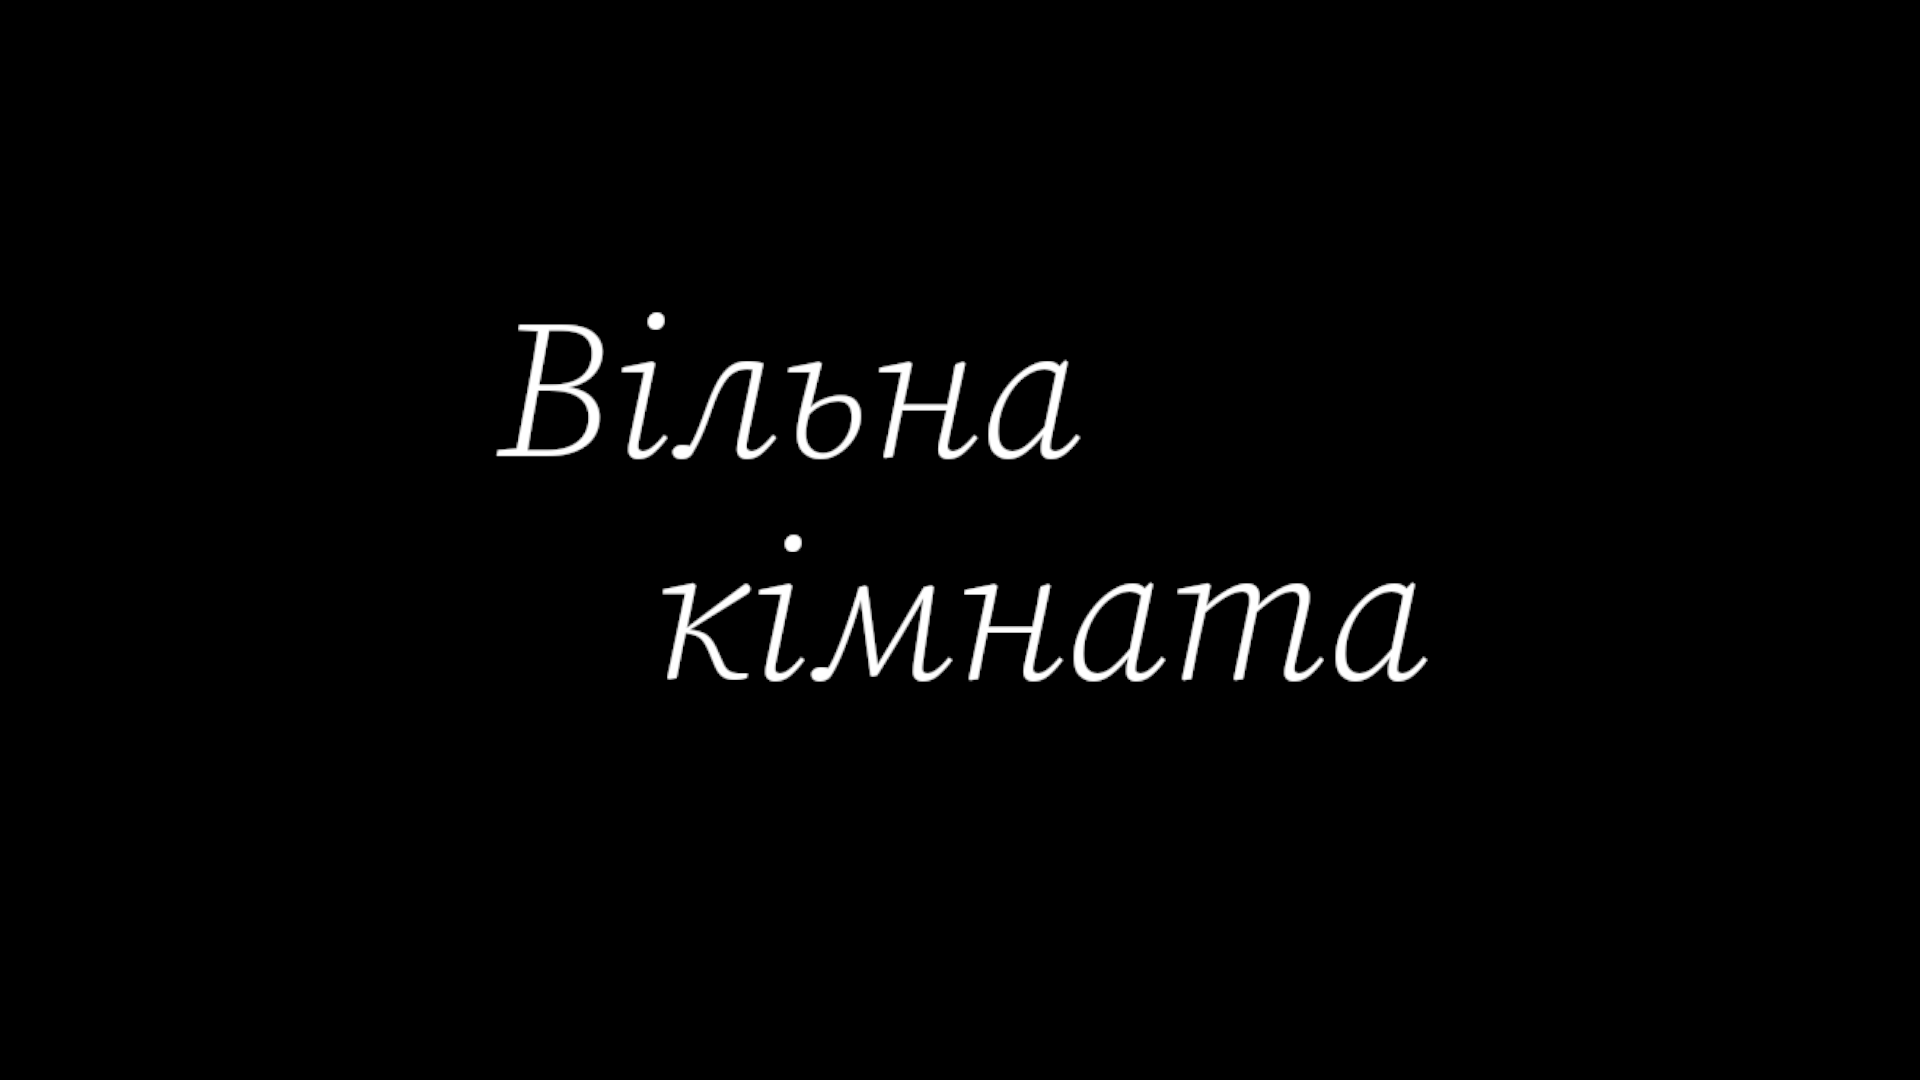
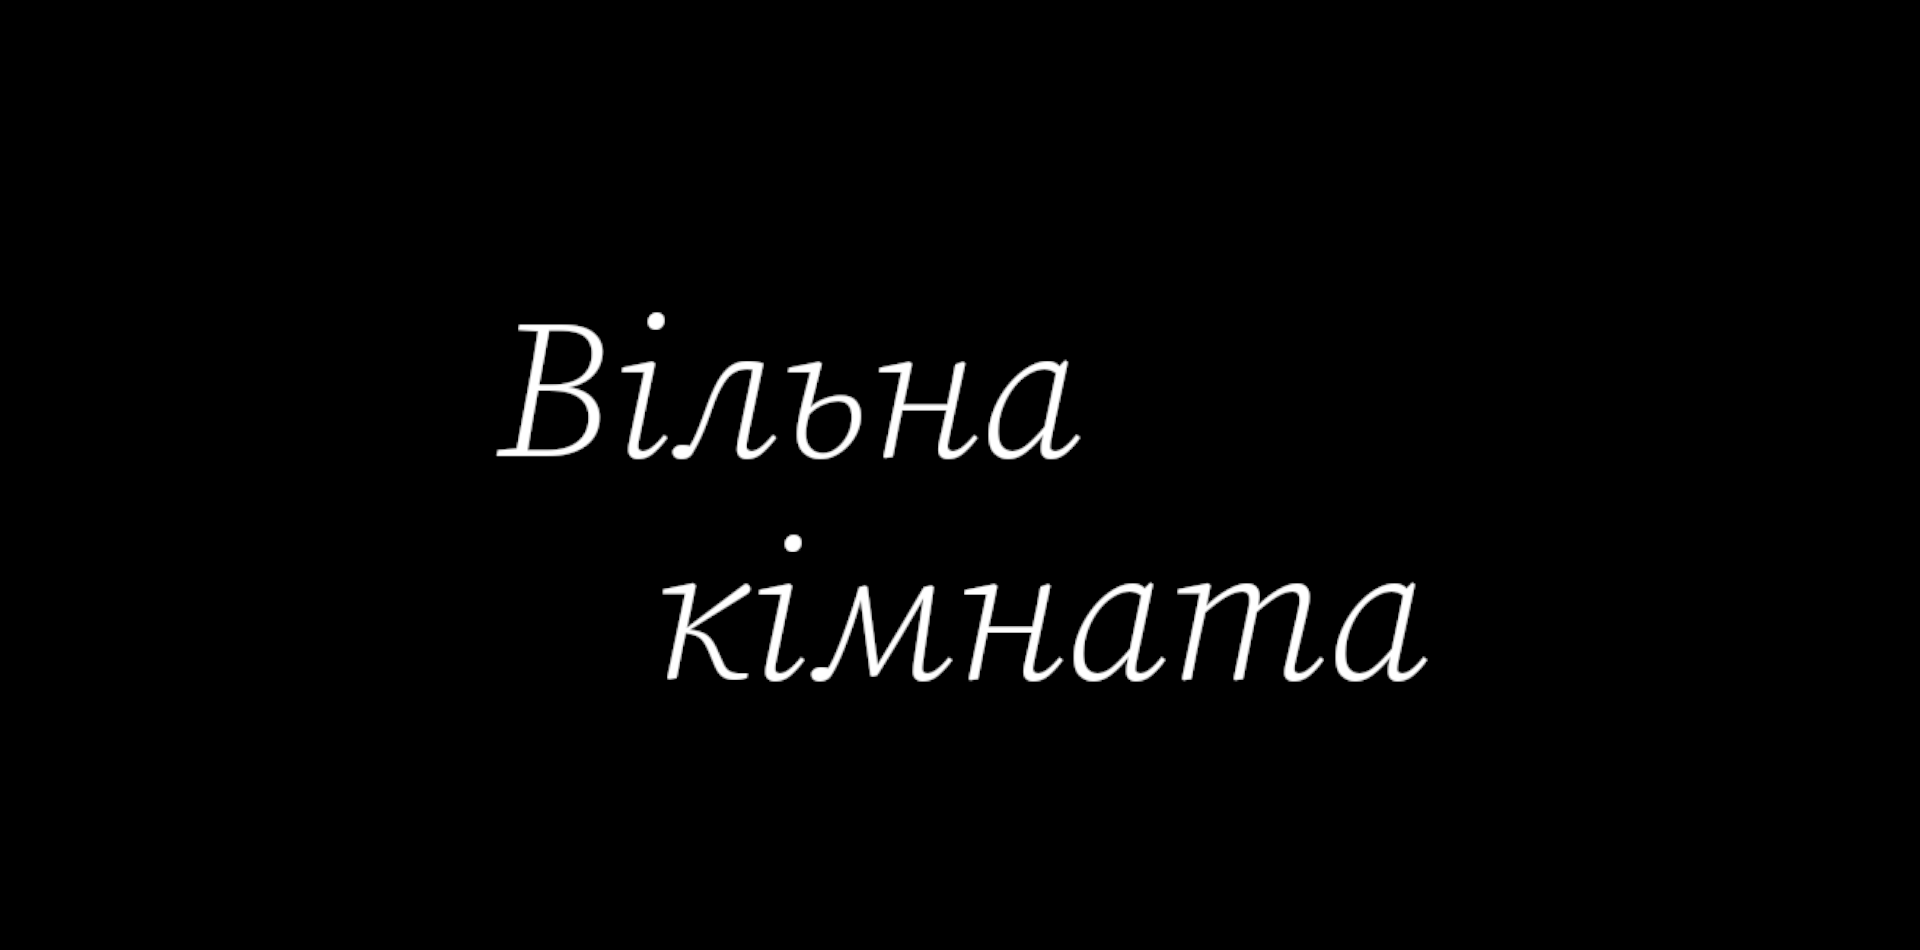
calendar adaptation #5

Changed region(s): [[0.3438, 0.5189, 0.75, 0.7326], [0.25, 0.2747, 0.5625, 0.5189]]

diff --git a/static/css/styles.css b/static/css/styles.css
@@ -1114,7 +1114,7 @@ li {
 
 .telegram-button-container {
     margin-top: auto;
-    padding: 10px;
+    padding: 15px;
     text-align: center;
     display: flex;
     /* Додає flex-контейнер */
@@ -1130,11 +1130,11 @@ li {
     background-color: #000000;
     color: white;
     cursor: pointer;
-    padding: 8px 10px;
+    padding: 7px 30px;
     font-size: 14px;
     border: none;
     border-radius: 20px;
-    transition: background-color 0.3s ease, transform 0.3s ease;
+    /* transition: background-color 0.3s ease, transform 0.3s ease; */
     box-shadow: 0 4px 6px rgba(0, 0, 0, 0.1);
     text-align: center;
     text-decoration: none;
@@ -1153,7 +1153,7 @@ li {
 
 .sign-up:hover {
     background-color: #024853;
-    transform: scale(1.05);
+    /* transform: scale(1.05); */
 }
 
 
@@ -1171,6 +1171,44 @@ li {
         flex-direction: column;
         gap: 20px;
         justify-content: center;
+        width: 100%;
+    }
+
+    .event-card:hover {
+        transform: none;
+    }
+}
+
+@media (max-width: 640px) {
+    .calendar-imgs {
+        max-height: 18vh;
+        min-height: 13vh;
+    }
+}
+
+@media (max-width: 550px) {
+    .calendar-imgs {
+        max-height: 18vh;
+        min-height: 13vh;
+    }
+
+    .sign-up {
+        font-size: 14px;
+        padding: 7px 30px;
+    }
+}
+
+@media (max-width: 480px) {
+
+    #calendar {
+        width: 100%;
+    }
+
+    #calendar-events {
+        flex-direction: column;
+        gap: 20px;
+        justify-content: center;
+        width: 100%;
     }
 
     .event-card {
@@ -1178,18 +1216,46 @@ li {
         height: auto;
     }
 
-    .event-card:hover {
-        transform: none;
+    .event-card h3 {
+        font-size: 14px;
+        max-height: 50px;
     }
 
     .calendar-imgs {
         max-height: 15vh;
-        min-height: auto;
+        min-height: 10vh;
     }
 
     .sign-up {
-        font-size: 12px;
-        padding: 6px 35px;
+        font-size: 14px;
+        padding: 7px 30px;
+    }
+
+    .span-for-icons {
+        font-size: 13px;
+    }
+
+    .calendar-icon {
+        max-height: 20px;
+        max-width: 20px;
+    }
+}
+
+@media (max-width: 430px) {
+
+    .event-card h3 {
+        font-size: 13px;
+        max-height: 45px;
+    }
+
+    .calendar-imgs {
+        max-height: 15vh;
+        min-height: 10vh;
+    }
+
+    .sign-up {
+        font-size: 13px;
+        padding: 8px 25px;
     }
 
     .span-for-icons {
